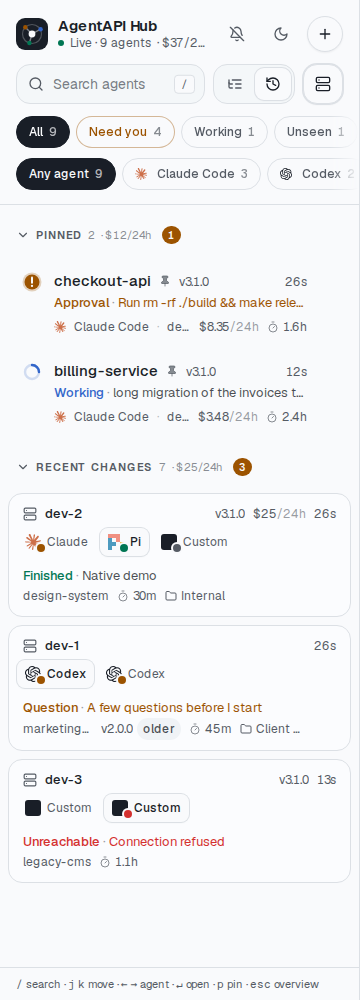
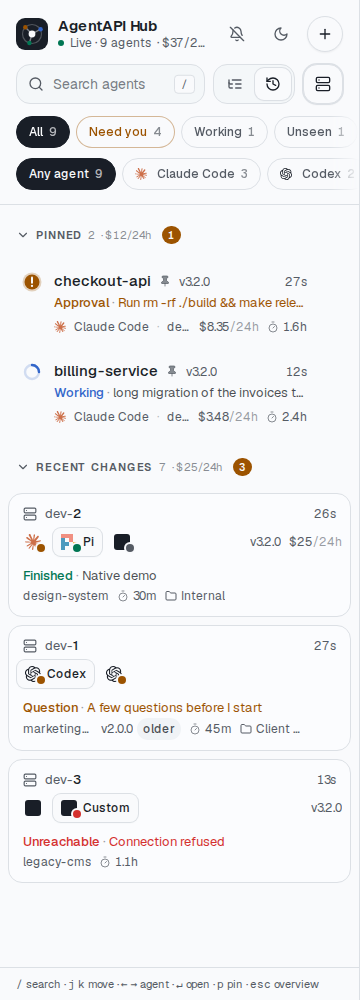
docs: the machine card's new layout

diff --git a/docs/hub.md b/docs/hub.md
@@ -475,17 +475,19 @@ it by the time its row shows, else by when the hub last heard of it.
 
 A machine often runs two or three agents (Claude Code, Codex, Pi) in the same directory, so their
 rows look alike. **By machine**, the toggle beside the order's switch, puts each machine's agents
-together in one card, in either order; each browser remembers it. The card names the machine (its
-host name) once, with what its agents share: their directory's name, their AgentAPI version and,
-after it, what they spent in the last 24 hours. A long host name wraps rather than losing its end,
-and a directory name the host name already contains isn't repeated.
+together in one card, in either order; each browser remembers it. The card's first line is the
+machine's host name alone, wrapped rather than cut; the start most machines' names share (such as
+`coder-<user>-`) is dimmed, so the rest tells them apart.
 
-Below the name, each agent has a tab: its mark, a short name (Claude, Codex, Pi) and a dot in its
-state's color: amber when it needs you, blue while it works, green when it finished unseen, grey
-when muted or stopped, red when unreachable, none while idle. Tabs keep their order, by agent,
-whatever their states. Under the tabs, the card shows one agent: what it waits for or does, how
-long ago, and its spend, work time, queue or usage limit, with a name or version the card's agents
-don't share. Click it to open the agent; its **⋯** menu is a list row's: pin, mute, group, update,
+Below the name, each agent has a tab with its mark and a dot in its state's color: amber when it
+needs you, blue while it works, green when it finished unseen, grey when muted or stopped, red when
+unreachable, none while idle. The picked tab also says the agent's short name (Claude, Codex, Pi);
+hover over the others for theirs. Tabs keep their order, by agent, whatever their states. Beside
+them is what the agents share: their AgentAPI version and what they spent in the last 24 hours. A
+card with one agent shown (the only one, or the only one a filter lets through) has a label instead
+of a tab, and its spend only once, below. Under the tabs, the card shows one agent: what it waits
+for or does, how long ago, and its spend, work time, queue or usage limit, with its directory's name
+when the host name doesn't contain it and its version when the card's agents don't share one. Click it to open the agent; its **⋯** menu is a list row's: pin, mute, group, update,
 forget. A click on a tab opens that agent, as a row would.
 
 In **Groups**, the groups stay, and within one the machine whose agent needs you the most comes

diff --git a/CHANGELOG.md b/CHANGELOG.md
@@ -1,5 +1,16 @@
 # Changelog
 
+## Unreleased
+
+### Fixes
+
+- The hub's machine cards read more clearly, on a phone especially. The host name has the first line
+  to itself, so it no longer wraps into three, and the start most machines' names share (such as
+  `coder-<user>-`) is dimmed. The version and spend sit beside the tabs, and only the picked tab
+  carries its agent's name. A card with one agent shown, such as with an agent filter, has a label
+  instead of a lone tab and shows its spend once. The directory's name moved from the card's header to
+  the agent below it.
+
 ## v3.2.0
 
 ### Features
